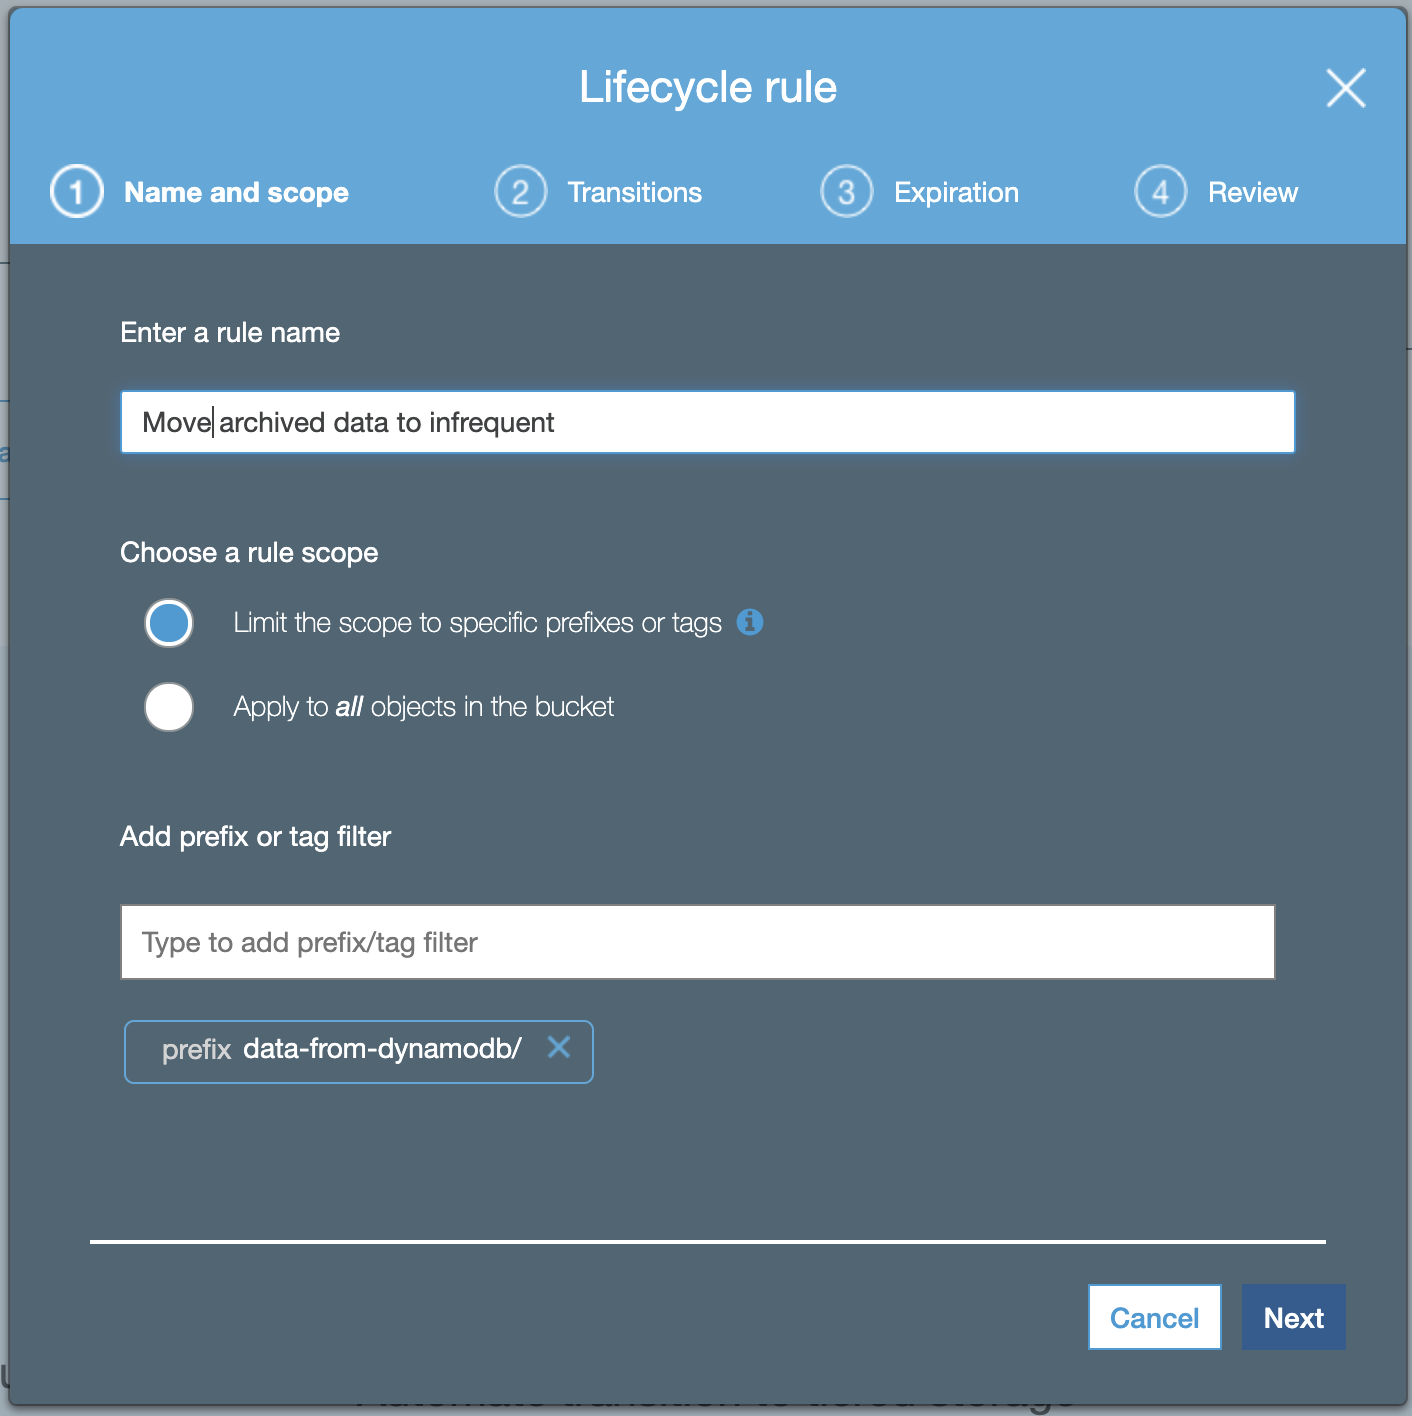
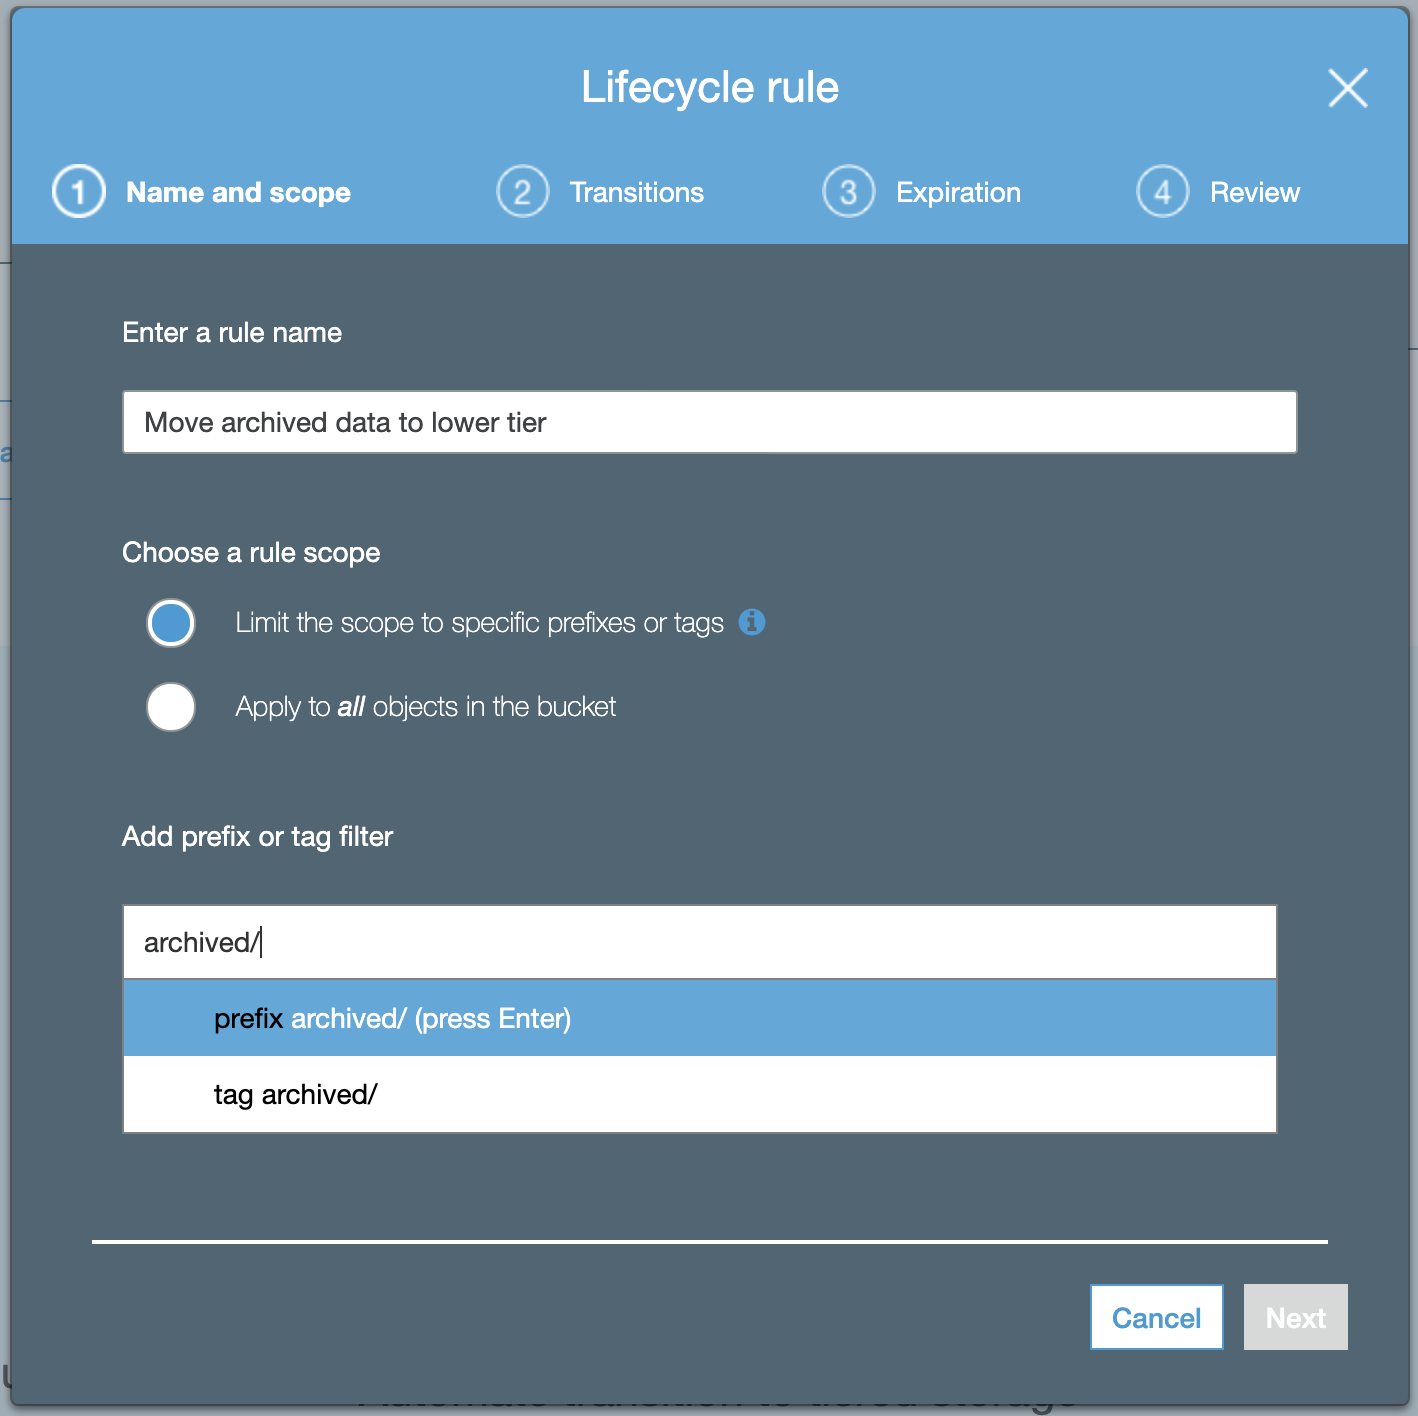
Update pictures and add one fore glacier

diff --git a/_posts/2020-08-07-archiving-data.md b/_posts/2020-08-07-archiving-data.md
@@ -65,12 +65,15 @@ def handler(event, context):
             return
     
         payload = record['dynamodb']['NewImage']
-        # this assumes that there is a partition key called Id which is a number, and that there is no sort key
+        # this assumes that there is a partition key called Id 
+        # which is a number, and that there is no sort key
         key = record['dynamodb']['Keys']['Id']['N']
 
         date = datetime.now().isoformat()
 
-        s3.Object('my_bucket', f"data-from-dynamodb/{date}/{key}").put(Body=json.dumps(payload).encode())
+        object_key = f"data-from-dynamodb/{date}/{key}"
+        body = json.dumps(payload).encode()
+        s3.Object('my_bucket', object_key).put(Body=body)
 ```
 
 This will store deleted records in the S3 bucket `my_bucket`. No data is lost, the DynamoDB table stays small and you get an instant 90% cost reduction on storage.
@@ -104,12 +107,13 @@ s3 = boto.client('s3')
 
 one_mb = 1024 * 1024
 bucket = 'my_bucket'
-date = '2020-07'
+date_prefix = 'data-from-dynamodb/2020-07'
 
 print("Downloading data")
 
 objects = []
-for obj_info in s3.list_objects(Bucket=bucket, Prefix=f'data-from-dynamodb/{date}').get('Contents', []):
+files_response = s3.list_objects(Bucket=bucket, Prefix=date_prefix)
+for obj_info in files_response.get('Contents', []):
     key = obj_info['Key']
     obj = s3.Object(bucket, key).get()
     data = json.loads(obj['Body'].read().decode('utf-8'))
@@ -125,15 +129,17 @@ for obj in objects:
     size += len(obj['data'])
 
     if size > one_mb:
-        s3.put_object(Body=json.dumps(obj['data']).encode(), Bucket=bucket, Key=f"aggregated/{date}")
+        body = json.dumps(obj['data']).encode()
+        s3.put_object(Body=body, Bucket=bucket, Key=f"aggregated/{date}")
         size = 0
         aggregator = {}
 
-s3.put_object(Body=json.dumps(obj['data']).encode(), Bucket=bucket, Key=f"aggregated/{date}")
+body = json.dumps(obj['data']).encode()
+s3.put_object(Body=body, Bucket=bucket, Key=f"aggregated/{date}")
 
 print("Deleting data")
 
-for obj_info in s3.list_objects(Bucket=bucket, Prefix=f'data-from-dynamodb/{date}').get('Contents', []):
+for obj_info in s3.list_objects(Bucket=bucket, Prefix=date_prefix).get('Contents', []):
     s3.delete_object(Bucket=bucket, Key=obj_info['Key'])
 
 print("Done")
@@ -172,6 +178,8 @@ S3 Glacier and S3 Glacier Deep Archive become interesting options, when you need
 **How to move data to Glacier**
 
 As we've previously aggregated our data, we can add additional lifecycle transitions to move the data from S3 Infrequent Access to S3 Glacier. Instead of the Infrequent Access tier, now pick a Glacier option and adjust the time before transition accordingly.
+
+![Lifecycle Rule Glacier](https://github.com/bahrmichael/bahrmichael.github.io/raw/master/pictures/data_archival_glacier.png)
 
 That's it. Your data is now on ice and we get an additional 68% cost reduction on storage.
 
